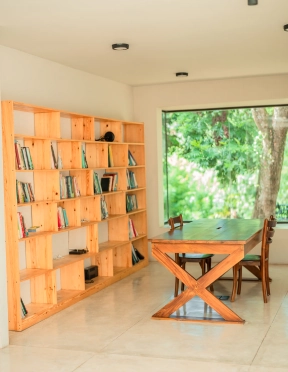
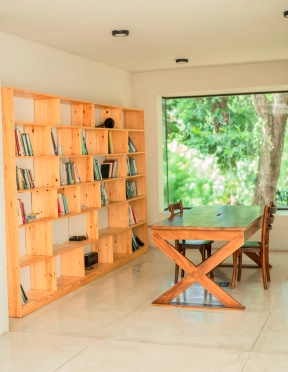
final images

diff --git a/frontend/src/pages/Contact.jsx b/frontend/src/pages/Contact.jsx
@@ -525,8 +525,7 @@ export default function Contact() {
           >
             <img
               className={String.raw`max-w-full block w-full h-full object-cover [.frame.img-missing_>_&]:opacity-0`}
-              src="https://images.unsplash.com/photo-1742281095650-dd3c50c08772?auto=format&amp;fit=crop&amp;w=1600&amp;q=78"
-              srcSet="https://images.unsplash.com/photo-1742281095650-dd3c50c08772?auto=format&amp;fit=crop&amp;w=640&amp;q=78 640w, https://images.unsplash.com/photo-1742281095650-dd3c50c08772?auto=format&amp;fit=crop&amp;w=1024&amp;q=78 1024w, https://images.unsplash.com/photo-1742281095650-dd3c50c08772?auto=format&amp;fit=crop&amp;w=1600&amp;q=78 1600w, https://images.unsplash.com/photo-1742281095650-dd3c50c08772?auto=format&amp;fit=crop&amp;w=2400&amp;q=78 2400w"
+              src={images["c1.webp"]}
               sizes="33vw"
               alt=""
               loading="lazy"
@@ -539,8 +538,7 @@ export default function Contact() {
           >
             <img
               className={String.raw`max-w-full block w-full h-full object-cover [.frame.img-missing_>_&]:opacity-0`}
-              src="https://images.unsplash.com/photo-1709926701984-f5ae0099595f?auto=format&amp;fit=crop&amp;w=1600&amp;q=78"
-              srcSet="https://images.unsplash.com/photo-1709926701984-f5ae0099595f?auto=format&amp;fit=crop&amp;w=640&amp;q=78 640w, https://images.unsplash.com/photo-1709926701984-f5ae0099595f?auto=format&amp;fit=crop&amp;w=1024&amp;q=78 1024w, https://images.unsplash.com/photo-1709926701984-f5ae0099595f?auto=format&amp;fit=crop&amp;w=1600&amp;q=78 1600w, https://images.unsplash.com/photo-1709926701984-f5ae0099595f?auto=format&amp;fit=crop&amp;w=2400&amp;q=78 2400w"
+              src={images["c2.webp"]}
               sizes="33vw"
               alt=""
               loading="lazy"

diff --git a/frontend/src/pages/Home.jsx b/frontend/src/pages/Home.jsx
@@ -1592,7 +1592,7 @@ export default function Home() {
               >
                 <img
                   className={String.raw`max-w-full block w-full h-full object-cover [.frame.img-missing_>_&]:opacity-0 [transform-origin:50%_50%]`}
-                  src={images["Food3.1.png"]}
+                  src={images["Food3.1.webp"]}
                   sizes="(min-width: 992px) 55vw, 100vw"
                   alt="A traditional Sri Lankan meal of rice and curries served on a leaf"
                   loading="lazy"
